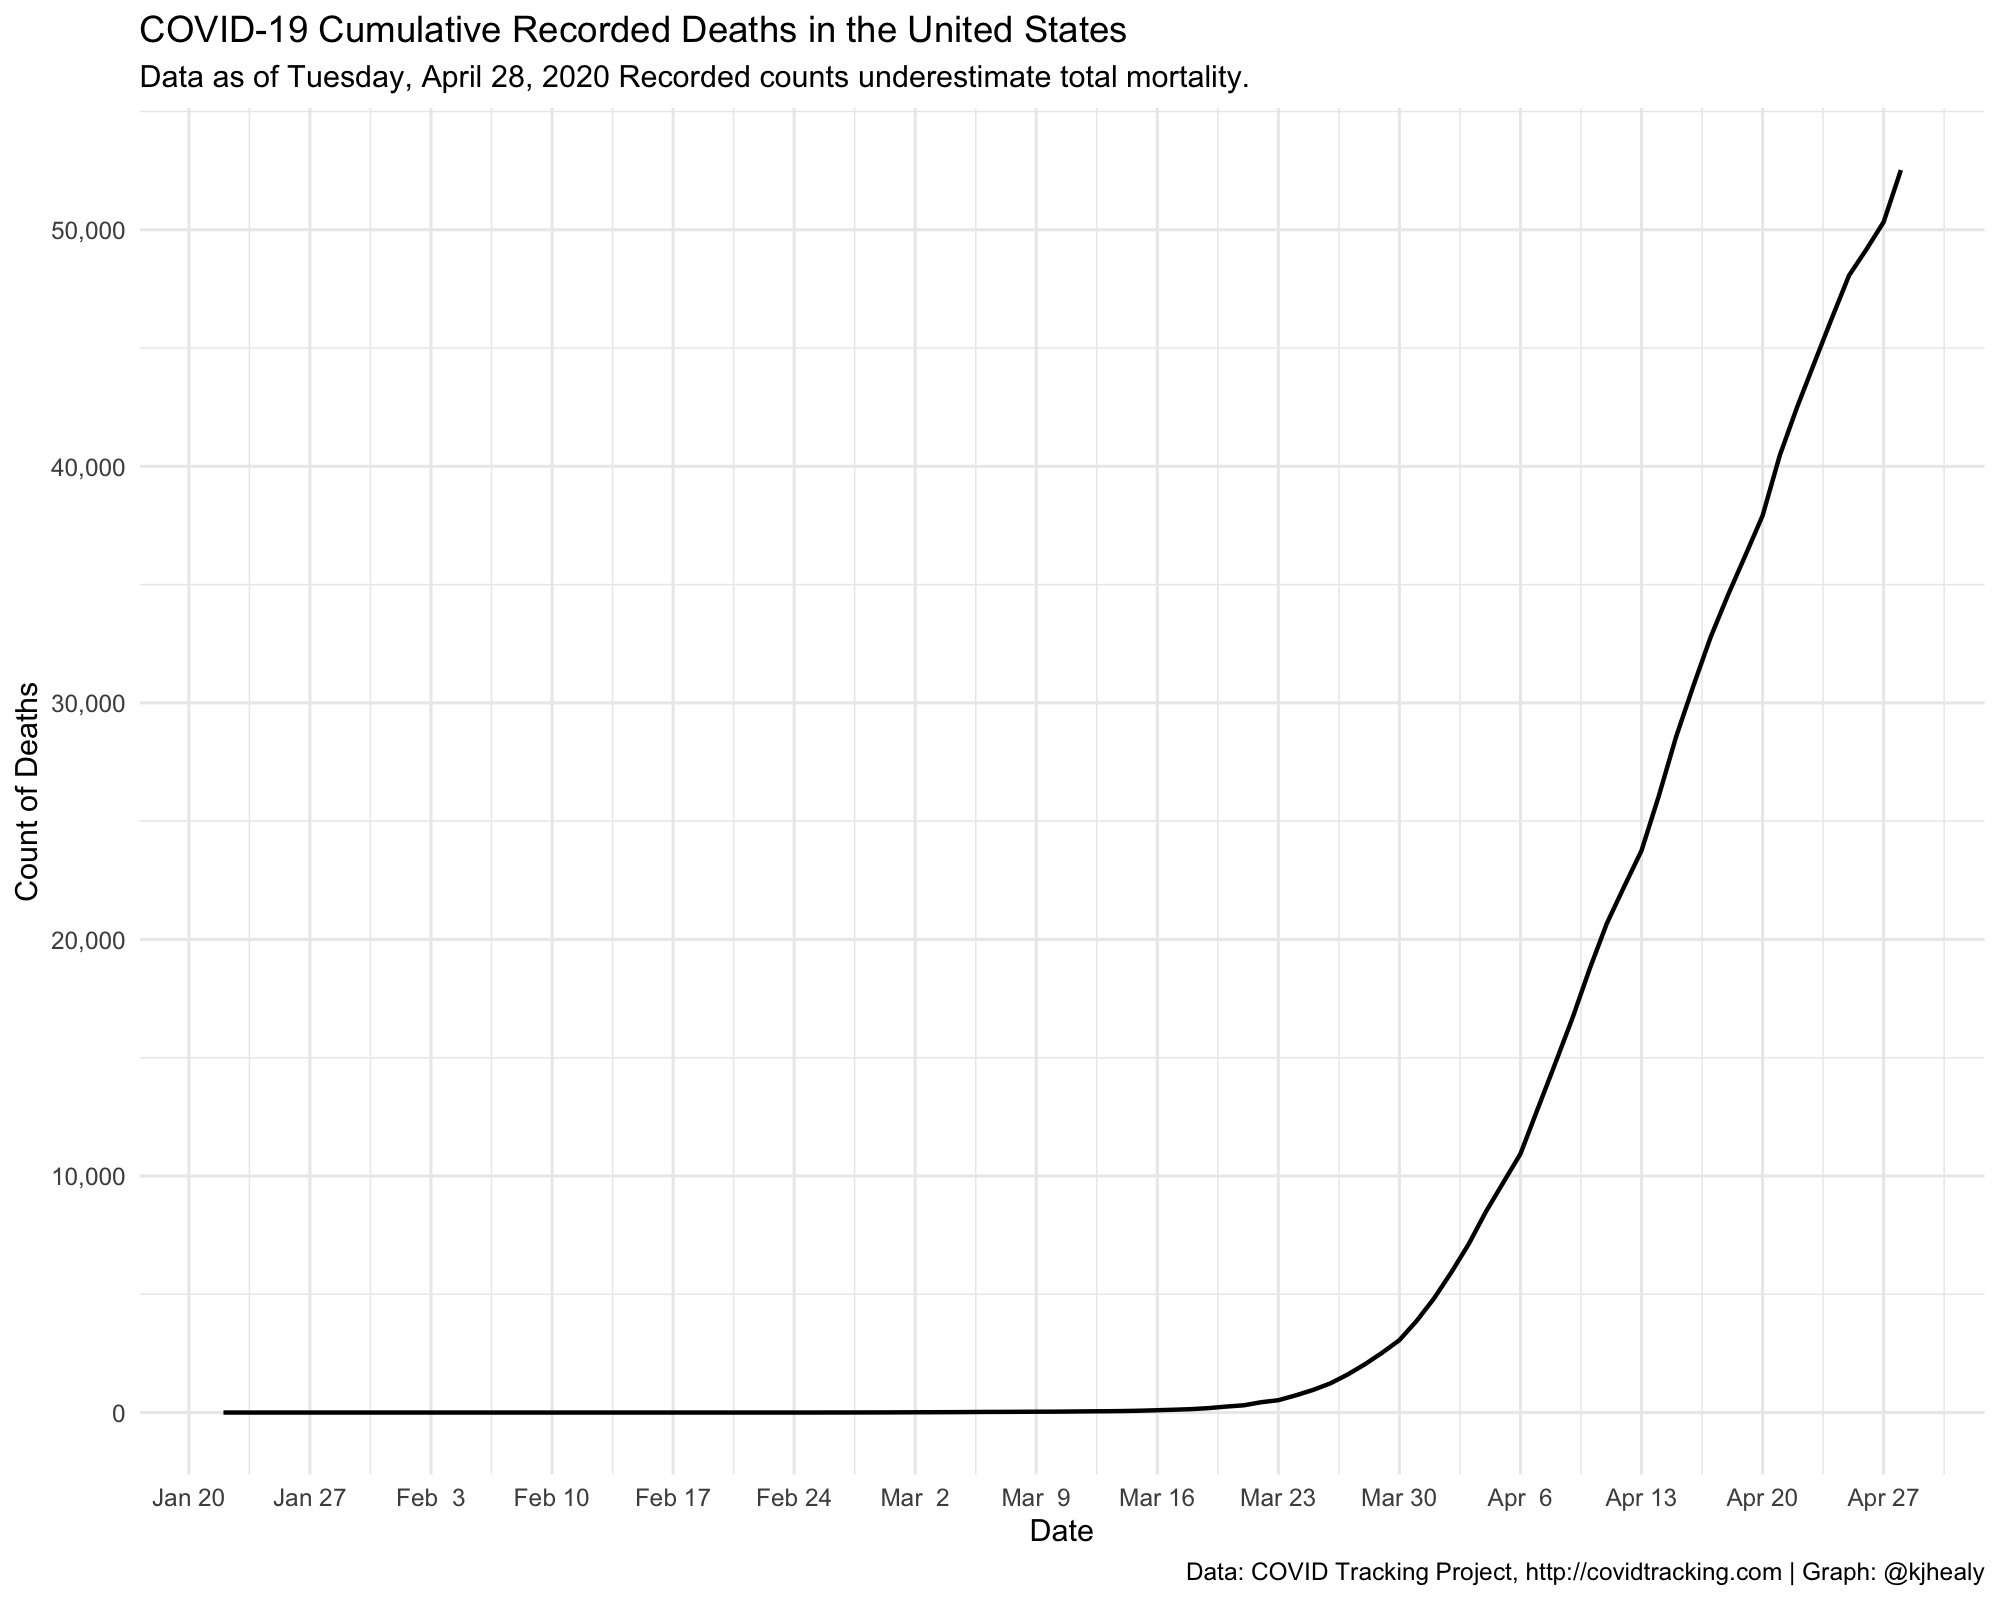
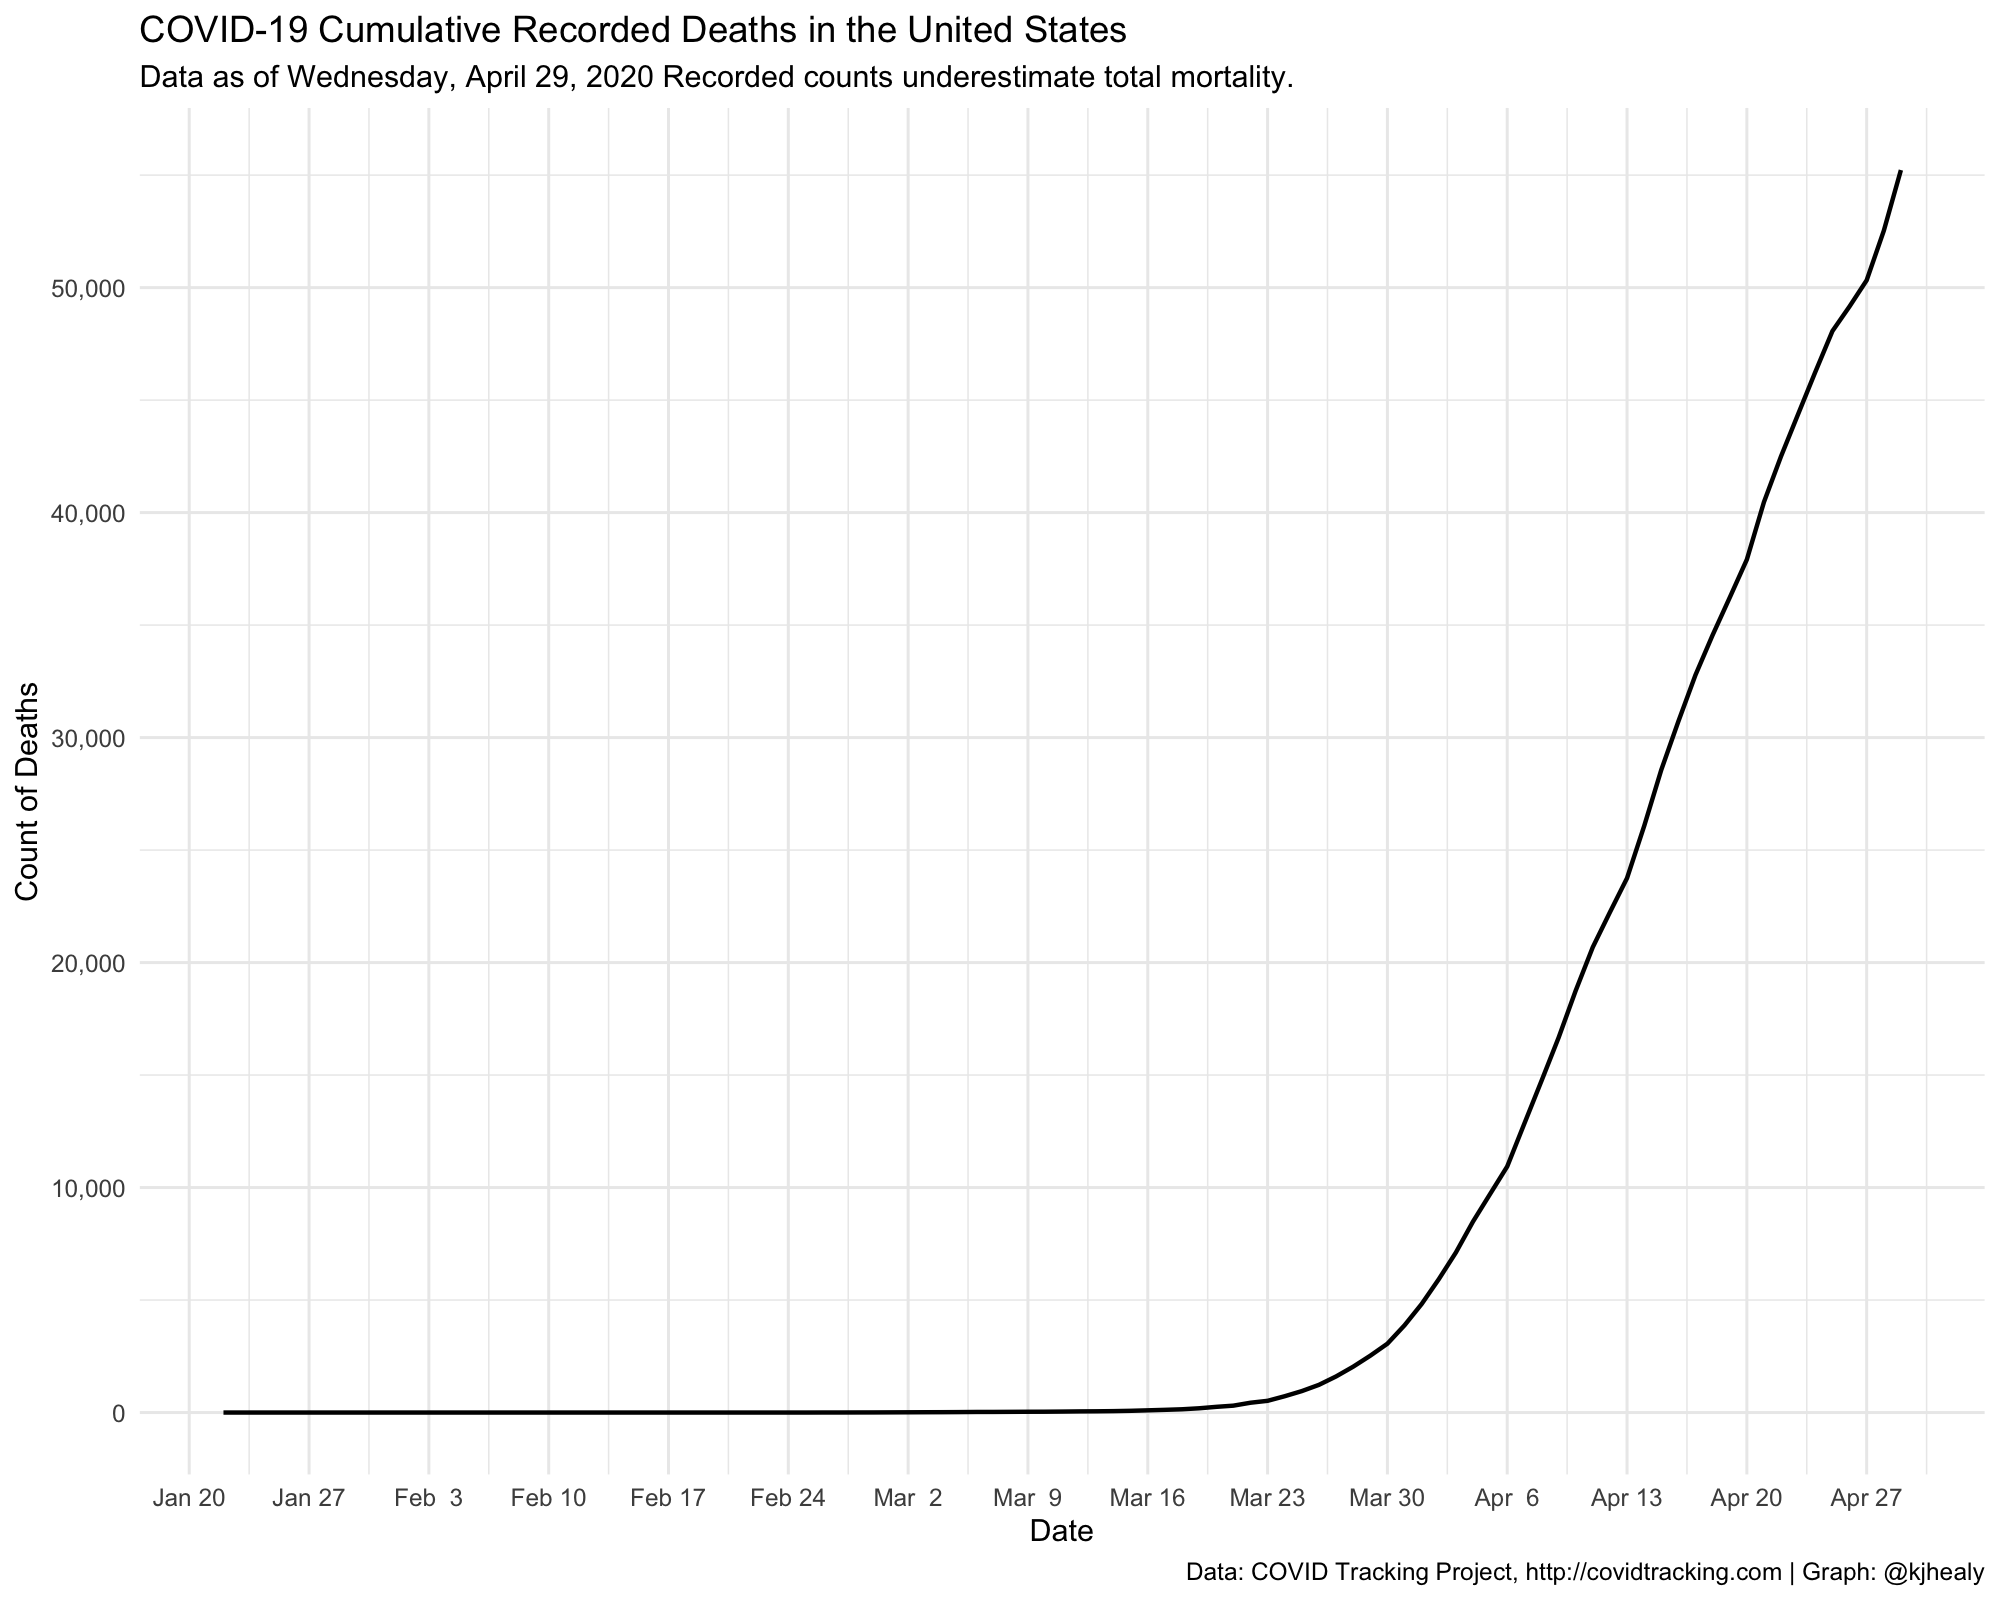
Built site for covdata: 0.1.7.9000@36ea2df

diff --git a/articles/us-data.html b/articles/us-data.html
@@ -126,20 +126,20 @@
 <h2 class="hasAnchor">
 <a href="#covid-tracking-project-data" class="anchor"></a>COVID Tracking Project data</h2>
 <div class="sourceCode" id="cb2"><html><body><pre class="r"><span class="no">covus</span>
-<span class="co">#&gt; # A tibble: 54,738 x 5</span>
+<span class="co">#&gt; # A tibble: 55,746 x 5</span>
 <span class="co">#&gt;    date       state fips  measure                  count</span>
 <span class="co">#&gt;    &lt;date&gt;     &lt;chr&gt; &lt;chr&gt; &lt;chr&gt;                    &lt;dbl&gt;</span>
-<span class="co">#&gt;  1 2020-04-28 AK    02    positive                   351</span>
-<span class="co">#&gt;  2 2020-04-28 AK    02    negative                 16738</span>
-<span class="co">#&gt;  3 2020-04-28 AK    02    pending                     NA</span>
-<span class="co">#&gt;  4 2020-04-28 AK    02    hospitalized_currently      16</span>
-<span class="co">#&gt;  5 2020-04-28 AK    02    hospitalized_cumulative     NA</span>
-<span class="co">#&gt;  6 2020-04-28 AK    02    in_icu_currently            NA</span>
-<span class="co">#&gt;  7 2020-04-28 AK    02    in_icu_cumulative           NA</span>
-<span class="co">#&gt;  8 2020-04-28 AK    02    on_ventilator_currently     NA</span>
-<span class="co">#&gt;  9 2020-04-28 AK    02    on_ventilator_cumulative    NA</span>
-<span class="co">#&gt; 10 2020-04-28 AK    02    recovered                  228</span>
-<span class="co">#&gt; # … with 54,728 more rows</span></pre></body></html></div>
+<span class="co">#&gt;  1 2020-04-29 AK    02    positive                   355</span>
+<span class="co">#&gt;  2 2020-04-29 AK    02    negative                 18764</span>
+<span class="co">#&gt;  3 2020-04-29 AK    02    pending                     NA</span>
+<span class="co">#&gt;  4 2020-04-29 AK    02    hospitalized_currently      14</span>
+<span class="co">#&gt;  5 2020-04-29 AK    02    hospitalized_cumulative     NA</span>
+<span class="co">#&gt;  6 2020-04-29 AK    02    in_icu_currently            NA</span>
+<span class="co">#&gt;  7 2020-04-29 AK    02    in_icu_cumulative           NA</span>
+<span class="co">#&gt;  8 2020-04-29 AK    02    on_ventilator_currently     NA</span>
+<span class="co">#&gt;  9 2020-04-29 AK    02    on_ventilator_cumulative    NA</span>
+<span class="co">#&gt; 10 2020-04-29 AK    02    recovered                  240</span>
+<span class="co">#&gt; # … with 55,736 more rows</span></pre></body></html></div>
 <p>Draw a log-linear graph of cumulative reported US cases.</p>
 <div class="sourceCode" id="cb3"><html><body><pre class="r"><span class="co">## Which n states are leading the count of positive cases or deaths?</span>
 <span class="no">top_n_states</span> <span class="kw">&lt;-</span> <span class="kw">function</span>(<span class="no">data</span>, <span class="no">n</span> <span class="kw">=</span> <span class="fl">5</span>, <span class="no">measure</span> <span class="kw">=</span> <span class="fu"><a href="https://rdrr.io/r/base/c.html">c</a></span>(<span class="st">"positive"</span>, <span class="st">"death"</span>)) {
@@ -183,7 +183,7 @@
 
 <span class="co">#&gt; Warning: Transformation introduced infinite values in continuous y-axis</span>
 <span class="co">#&gt; Warning: Removed 15 row(s) containing missing values (geom_path).</span>
-<span class="co">#&gt; Warning: Removed 2712 rows containing missing values (geom_text_repel).</span></pre></body></html></div>
+<span class="co">#&gt; Warning: Removed 2768 rows containing missing values (geom_text_repel).</span></pre></body></html></div>
 <p><img src="us-data_files/figure-html/us-example-1.png" width="1000"></p>
 <p>Draw a graph of cumulative reported US deaths, aggregated to the national level</p>
 <div class="sourceCode" id="cb4"><html><body><pre class="r"><span class="no">covus</span> <span class="kw">%&gt;%</span>
@@ -193,7 +193,7 @@
   <span class="fu">ggplot</span>(<span class="fu">aes</span>(<span class="kw">x</span> <span class="kw">=</span> <span class="no">date</span>, <span class="kw">y</span> <span class="kw">=</span> <span class="no">count</span>)) +
   <span class="fu">geom_line</span>(<span class="kw">size</span> <span class="kw">=</span> <span class="fl">0.75</span>) +
   <span class="fu">scale_x_date</span>(<span class="kw">date_breaks</span> <span class="kw">=</span> <span class="st">"1 week"</span>, <span class="kw">date_labels</span> <span class="kw">=</span> <span class="st">"%b %e"</span> ) +
-  <span class="fu">scale_y_continuous</span>(<span class="kw">labels</span> <span class="kw">=</span> <span class="kw pkg">scales</span><span class="kw ns">::</span><span class="no"><a href="https://scales.r-lib.org//reference/label_number.html">comma</a></span>) +
+  <span class="fu">scale_y_continuous</span>(<span class="kw">labels</span> <span class="kw">=</span> <span class="kw pkg">scales</span><span class="kw ns">::</span><span class="no"><a href="https://scales.r-lib.org//reference/label_number.html">comma</a></span>, <span class="kw">breaks</span> <span class="kw">=</span> <span class="fu"><a href="https://rdrr.io/r/base/seq.html">seq</a></span>(<span class="fl">0</span>, <span class="fl">60000</span>, <span class="fl">10000</span>)) +
   <span class="fu">labs</span>(<span class="kw">title</span> <span class="kw">=</span> <span class="st">"COVID-19 Cumulative Recorded Deaths in the United States"</span>,
        <span class="kw">subtitle</span> <span class="kw">=</span> <span class="fu"><a href="https://rdrr.io/r/base/paste.html">paste</a></span>(<span class="st">"Data as of"</span>, <span class="fu"><a href="https://rdrr.io/r/base/format.html">format</a></span>(<span class="fu"><a href="https://rdrr.io/r/base/Extremes.html">max</a></span>(<span class="no">covus</span>$<span class="no">date</span>), <span class="st">"%A, %B %e, %Y"</span>), <span class="st">"Recorded counts underestimate total mortality."</span>),
        <span class="kw">x</span> <span class="kw">=</span> <span class="st">"Date"</span>, <span class="kw">y</span> <span class="kw">=</span> <span class="st">"Count of Deaths"</span>,

diff --git a/reference/covus.html b/reference/covus.html
@@ -150,7 +150,7 @@
 
     <h2 class="hasAnchor" id="format"><a class="anchor" href="#format"></a>Format</h2>
 
-    <p>A tibble with 54,738 rows and 5 columns</p><dl>
+    <p>A tibble with 55,746 rows and 5 columns</p><dl>
 <dt>date</dt><dd><p>Date in YYYY-MM-DD format (date)</p></dd>
 <dt>state</dt><dd><p>Two letter State abbreviation (character)</p></dd>
 <dt>fips</dt><dd><p>State FIPS code (character)</p></dd>
